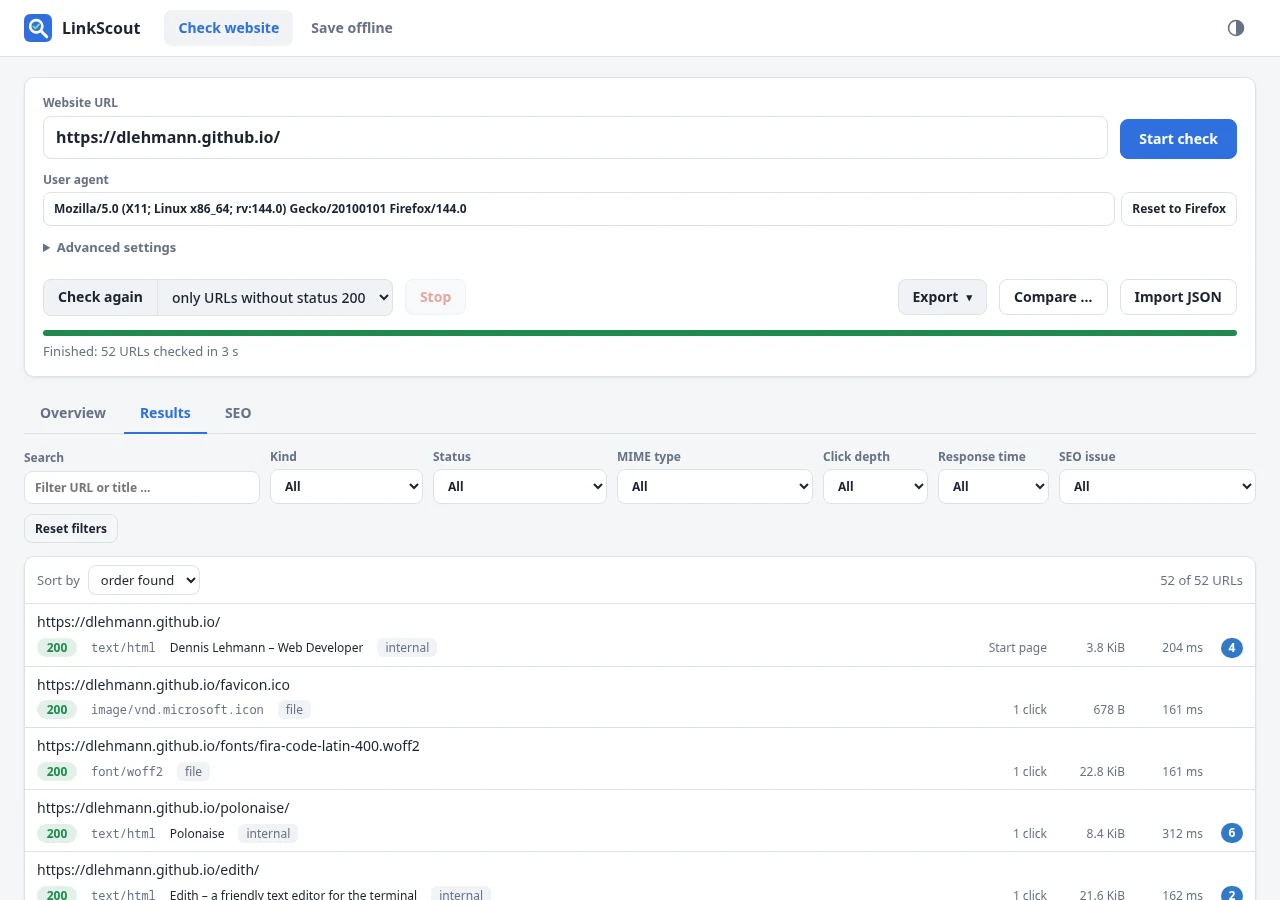
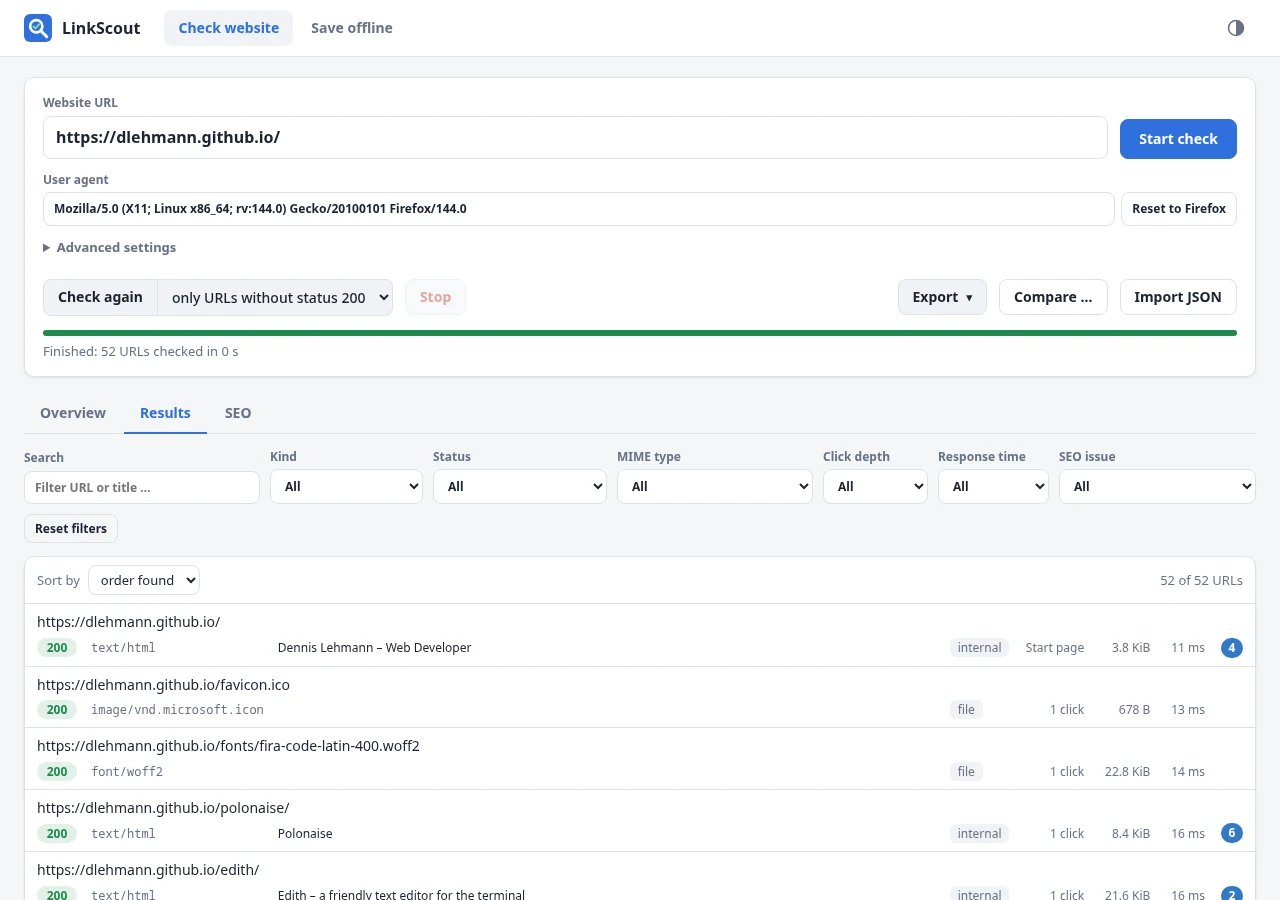
Results list: values in aligned columns
The second line of every entry uses columns shared by all entries (CSS
subgrid), so status, MIME type, title, kind, clicks, size, time and SEO
issues stand below each other. Missing values leave the cell empty.

diff --git a/internal/server/web/style.css b/internal/server/web/style.css
@@ -190,30 +190,39 @@ details.advanced summary { cursor: pointer; color: var(--muted); font-weight: 60
   font-size: 13px; color: var(--muted);
 }
 .list-bar select { padding: 4px 8px; font-size: 13px; }
-.result { padding: 8px 12px; border-bottom: 1px solid var(--border); cursor: pointer; }
+/* Every entry uses the same columns (subgrid of #results-list), so the
+   values of all URLs stand below each other. Columns: status, MIME type,
+   title (takes the rest), kind, clicks, size, time, SEO. */
+#results-list {
+  display: grid;
+  grid-template-columns: auto auto minmax(0, 1fr) auto auto auto auto auto;
+}
+.result {
+  grid-column: 1 / -1;
+  display: grid; grid-template-columns: subgrid;
+  column-gap: 14px; row-gap: 5px; align-items: center;
+  padding: 8px 12px; border-bottom: 1px solid var(--border); cursor: pointer;
+  font-size: 12px; color: var(--muted);
+}
 .result:last-child { border-bottom: 0; }
 .result:hover { background: var(--row-hover); }
+.r-url, .r-final { grid-column: 1 / -1; min-width: 0; }
 /* Long URLs are cut at the start, see urlCell() in app.js. */
 .result .u {
   display: block; overflow: hidden; white-space: nowrap; text-overflow: ellipsis;
   direction: rtl; text-align: left;
 }
-.r-url .u { font-size: 14px; }
+.r-url .u { font-size: 14px; color: var(--text); }
 .result a.u { color: var(--text); text-decoration: none; }
 .result a.u:hover { color: var(--accent); text-decoration: underline; }
-.r-final { color: var(--muted); font-size: 12px; margin-top: 1px; padding-left: 16px; position: relative; }
+.r-final { margin-top: -4px; padding-left: 16px; position: relative; }
 .r-final::before { content: "↳"; position: absolute; left: 0; }
 .r-final a.u { color: var(--muted); }
-.r-meta {
-  display: flex; flex-wrap: wrap; align-items: center; gap: 4px 14px;
-  margin-top: 5px; font-size: 12px; color: var(--muted); min-width: 0;
-}
-.r-type { font-family: ui-monospace, "JetBrains Mono", Menlo, monospace; }
-.r-title { color: var(--text); max-width: 340px; overflow: hidden; white-space: nowrap; text-overflow: ellipsis; }
-.r-title:empty { display: none; }
-.r-nums { margin-left: auto; display: flex; gap: 14px; align-items: center; font-variant-numeric: tabular-nums; white-space: nowrap; }
-.r-nums > span { min-width: 64px; text-align: right; }
-.r-nums > span.r-seo { min-width: 26px; }
+.c-type { font-family: ui-monospace, "JetBrains Mono", Menlo, monospace; white-space: nowrap; }
+.c-title { color: var(--text); min-width: 0; overflow: hidden; white-space: nowrap; text-overflow: ellipsis; }
+.c-num { text-align: right; white-space: nowrap; font-variant-numeric: tabular-nums; }
+.c-seo { min-width: 24px; text-align: right; }
+
 .empty { padding: 30px; text-align: center; color: var(--muted); }
 
 .badge {
@@ -273,8 +282,11 @@ footer { text-align: center; color: var(--muted); font-size: 12px; padding: 0 24
   .tabs { order: 3; flex-basis: 100%; overflow-x: auto; }
   main { padding: 14px 16px 30px; }
   input[type="number"] { width: 100%; }
-  .r-nums { margin-left: 0; width: 100%; justify-content: space-between; }
-  .r-nums > span { min-width: 0; }
+  /* phones: no columns, the values wrap below the URL */
+  #results-list { display: block; }
+  .result { display: flex; flex-wrap: wrap; gap: 4px 12px; }
+  .r-url, .r-final { flex-basis: 100%; }
+  .c-num:empty, .c-type:empty, .c-title:empty { display: none; }
   .filters select { max-width: none; }
   .filters label.filter { flex: 1 1 140px; }
   .filters label.filter select { width: 100%; }

diff --git a/internal/server/web/app.js b/internal/server/web/app.js
@@ -510,29 +510,28 @@
 
   /**
    * One entry of the results list: the URL (shortened at the start when it
-   * does not fit) on the first line, the redirect target below it, then
-   * status, MIME type, title and kind; clicks, size, time and SEO issues
-   * align right.
+   * does not fit) on the first line, the redirect target below it, then one
+   * cell per value. All entries share the same grid columns (CSS subgrid),
+   * so the values of different URLs stand exactly below each other; a
+   * missing value leaves its cell empty.
    */
   function resultRow(r) {
     const cls = statusClass(r);
     const status = r.pending ? "…" : r.status || "ERR";
-    const depth = (r.depth || 0) === NOT_LINKED ? t("stats.not_linked") : clickLabel(r.depth || 0);
+    const depth = r.pending ? "" : (r.depth || 0) === NOT_LINKED ? t("stats.not_linked") : clickLabel(r.depth || 0);
+    const size = !r.pending && r.size > 0 ? fmtBytes(r.size) : "";
+    const time = !r.pending && r.durationMs >= 0 && r.checkedAt && isSet(r.checkedAt) ? fmtMs(r.durationMs) : "";
     return `<div class="result" role="listitem" data-url="${esc(r.url)}">
       <div class="r-url">${urlCell(r.url)}</div>
       ${r.finalUrl ? `<div class="r-final">${urlCell(r.finalUrl, "final")}</div>` : ""}
-      <div class="r-meta">
-        <span class="badge s${cls}" title="${esc(errText(r.error))}">${status}</span>
-        <span class="r-type">${esc(typeOf(r) || "–")}</span>
-        <span class="r-title">${esc(r.title || errText(r.error) || "")}</span>
-        <span class="kind">${esc(t(`kind.${r.kind}`))}</span>
-        <span class="r-nums">
-          <span title="${esc(t("col.depth"))}">${esc(depth)}</span>
-          <span title="${esc(t("col.size"))}">${r.pending ? "" : fmtBytes(r.size)}</span>
-          <span title="${esc(t("col.time"))}">${r.pending ? "" : fmtMs(r.durationMs)}</span>
-          <span class="r-seo">${issueBadge(r)}</span>
-        </span>
-      </div>
+      <span class="c-status"><span class="badge s${cls}" title="${esc(errText(r.error))}">${status}</span></span>
+      <span class="c-type">${esc(typeOf(r))}</span>
+      <span class="c-title">${esc(r.title || errText(r.error) || "")}</span>
+      <span class="c-kind"><span class="kind">${esc(t(`kind.${r.kind}`))}</span></span>
+      <span class="c-num" title="${esc(t("col.depth"))}">${esc(depth)}</span>
+      <span class="c-num" title="${esc(t("col.size"))}">${size}</span>
+      <span class="c-num" title="${esc(t("col.time"))}">${time}</span>
+      <span class="c-seo">${issueBadge(r)}</span>
     </div>`;
   }
 

diff --git a/AGENTS.md b/AGENTS.md
@@ -201,7 +201,10 @@ make release    # dist/linkscout-{linux-amd64,linux-arm64,darwin-arm64}
   Every filter value is also visible in the list (clicks = depth, plus size);
   a separate "this/other website" column was dropped as redundant with Art.
   The results list is not a table but two-line entries (`resultRow()`): the
-  URL on the first line, the values on the second; sorting is a "Sort by"
+  URL on the first line, the values on the second, in columns shared by all
+  entries (`#results-list` grid, each `.result` a subgrid – so values line
+  up; a missing value is an empty cell, not "–"; phones fall back to
+  wrapping); sorting is a "Sort by"
   select plus direction button (`SORT_KEYS`). Every filter has a label
   above it and "All"/"Alle" as first option; a set filter gets `.active`. Long URLs are cut at the *start* with an ellipsis
   (`urlCell()`: `direction: rtl` + LRM marks, `td.url { max-width: 0 }`);

diff --git a/CHANGELOG.md b/CHANGELOG.md
@@ -11,7 +11,9 @@ section of a version as release notes.
 
 - Results list: two-line entries – the URL gets the full width of the first
   line, status, MIME type, title, kind, clicks, size, time and SEO issues
-  follow on the second line. Sorting moved to a "Sort by" selection
+  follow on the second line in columns that line up across all URLs (an
+  empty cell where a value is missing). Sorting moved to a "Sort by"
+  selection
 - Filters have labels, their first option is simply "All"; a filter that is
   set is highlighted
 
